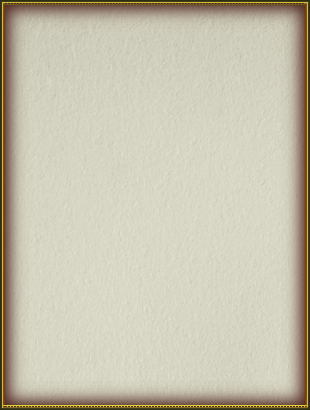
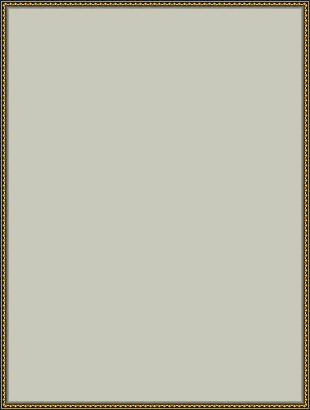
revised art assets, implement war score trigger as average

Changed region(s): [[0.0, 0.0, 1.0, 1.0]]

diff --git a/src/scripting/fif_common.hpp b/src/scripting/fif_common.hpp
@@ -1096,6 +1096,41 @@ inline int32_t* f_relations_b(fif::state_stack& s, int32_t* p, fif::environment*
 	s.push_back_main(fif::fif_f32, data, nullptr);
 	return p + 2;
 }
+inline float f_avg_warscore(sys::state* state, int32_t n_index) {
+	dcon::nation_id n{ dcon::nation_id::value_base_t(n_index) };
+
+	auto wp = state->world.nation_get_war_participant(n);
+	if(wp.begin() == wp.end()) {
+		return 0.f;
+	}
+	auto score = 0.f;
+	for(auto w : wp) {
+		if(w.get_is_attacker()) {
+			score += military::primary_warscore(*state, w.get_war());
+		} else {
+			score -= military::primary_warscore(*state, w.get_war());
+		}
+	}
+	return score / float(wp.end() - wp.begin());
+}
+inline int32_t* f_avg_warscore_b(fif::state_stack& s, int32_t* p, fif::environment* e) {
+	if(fif::typechecking_mode(e->mode)) {
+		if(fif::typechecking_failed(e->mode))
+			return p + 2;
+		s.pop_main(); s.pop_main();
+		s.push_back_main(fif::fif_f32, 0, nullptr);
+		return p + 2;
+	}
+
+	sys::state* state = (sys::state*)(s.main_data_back(0)); s.pop_main();
+	int32_t nindex = int32_t(s.main_data_back(0)); s.pop_main();
+
+	auto fres = f_avg_warscore(state, nindex);
+	int64_t data = 0;
+	memcpy(&data, &fres, 4);
+	s.push_back_main(fif::fif_f32, data, nullptr);
+	return p + 2;
+}
 inline bool f_has_union_sphere(sys::state* state, int32_t s_index) {
 	dcon::nation_id n{ dcon::nation_id::value_base_t(s_index) };
 	auto prim_culture = state->world.nation_get_primary_culture(n);
@@ -1394,6 +1429,7 @@ inline void common_fif_environment(sys::state& state, fif::environment& env) {
 	fif::add_import("ranked-nation-array", (void *) f_ranked_nations, f_ranked_nations_b, { fif::fif_opaque_ptr }, { fif::fif_opaque_ptr }, env);
 	fif::add_import("has-named-party?", (void*)f_party_name, f_party_name_b, { fif::fif_i32, fif::fif_i32, fif::fif_i32, fif::fif_opaque_ptr }, { fif::fif_bool }, env);
 	fif::add_import("has-positioned-party?", (void*)f_party_pos, f_party_pos_b, { fif::fif_i32, fif::fif_i32, fif::fif_i32, fif::fif_opaque_ptr }, { fif::fif_bool }, env);
+	fif::add_import("avg-warscore", (void*)f_avg_warscore, f_avg_warscore_b, { fif::fif_i32, fif::fif_opaque_ptr }, { fif::fif_f32 }, env);
 
 	fif::run_fif_interpreter(env,
 		" : first-sea-province " + std::to_string(offsetof(sys::state, province_definitions) + offsetof(province::global_provincial_state, first_sea_province)) + " state-ptr @ buf-add ptr-cast ptr(province_id) ; "

diff --git a/src/scripting/triggers.cpp b/src/scripting/triggers.cpp
@@ -4437,8 +4437,22 @@ TRIGGER_FUNCTION(tf_number_of_states) {
 	return compare_values(tval[0], ws.world.nation_get_owned_state_count(to_nation(primary_slot)), tval[1]);
 }
 TRIGGER_FUNCTION(tf_war_score) {
-	// unimplemented: which war would this be for?
-	return compare_to_true(tval[0], true);
+	auto result = ve::apply([&](dcon::nation_id n) {
+		auto score = 0.f;
+		auto wp = ws.world.nation_get_war_participant(n);
+		if(wp.begin() == wp.end()) {
+			return 0.f;
+		}
+		for(auto w : wp) {
+			if(w.get_is_attacker()) {
+				score += military::primary_warscore(ws, w.get_war());
+			} else {
+				score -= military::primary_warscore(ws, w.get_war());
+			}
+		}
+		return score / float(wp.end() - wp.begin());
+	}, to_nation(primary_slot));
+	return compare_values(tval[0], result, read_float_from_payload(tval + 1));
 }
 TRIGGER_FUNCTION(tf_is_releasable_vassal_from) {
 	auto tag = ws.world.nation_get_identity_from_identity_holder(to_nation(from_slot));

diff --git a/src/scripting/fif_triggers.cpp b/src/scripting/fif_triggers.cpp
@@ -2906,7 +2906,7 @@ TRIGGER_FUNCTION(tf_number_of_states) {
 	return "dup owned_state_count @ >i32 " + std::to_string(tval[1]) + " " + compare_values(tval[0]);
 }
 TRIGGER_FUNCTION(tf_war_score) {
-	return "true " + truth_inversion(tval[0]);
+	return "dup >index state-ptr @ avg-warscore " + std::to_string(read_float_from_payload(tval + 1)) + " " + compare_values(tval[0]);
 }
 TRIGGER_FUNCTION(tf_is_releasable_vassal_from) {
 	return ">r >r dup " + nation_to_tag() + "is_not_releasable @ not r> swap r> swap" + truth_inversion(tval[0]);
